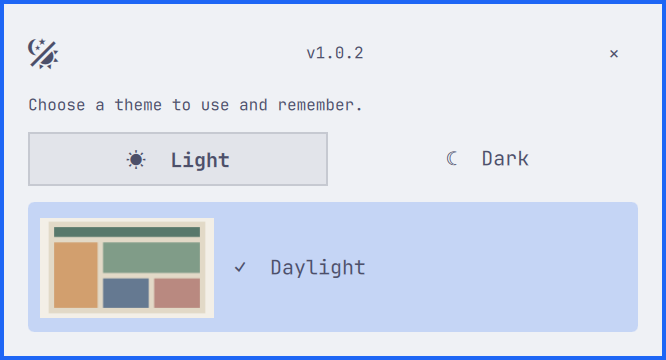
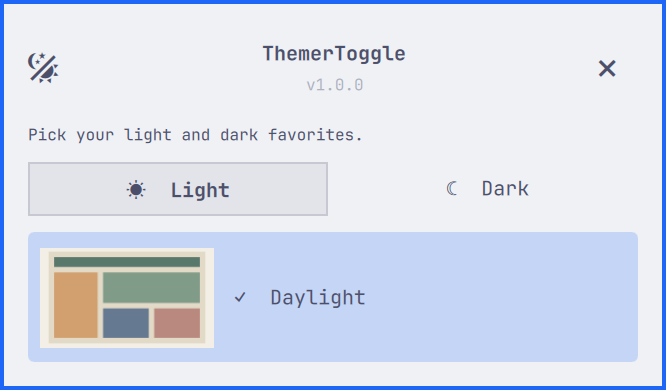
Polish menu header and prepare CodeRabbit reviews at version 1

diff --git a/ThemeSelector.qml b/ThemeSelector.qml
@@ -20,6 +20,7 @@ Panel {
   property string pluginVersion: ""
   readonly property alias closeButton: closeControl
   readonly property alias versionLabel: versionText
+  readonly property alias titleLabel: titleText
   FileView {
     path: decodeURIComponent(Qt.resolvedUrl("manifest.json").toString().replace(/^file:\/\//, ""))
     onLoaded: {
@@ -303,7 +304,7 @@ Panel {
       Keys.onEscapePressed: root.close()
       Item {
         Layout.fillWidth: true
-        implicitHeight: Style.space(30)
+        implicitHeight: Style.space(48)
         Text {
           anchors.left: parent.left
           anchors.verticalCenter: parent.verticalCenter
@@ -313,20 +314,34 @@ Panel {
           font.pixelSize: Style.space(22)
           Accessible.name: "ThemerToggle"
         }
-        Text {
-          id: versionText
+        Column {
           anchors.centerIn: parent
-          text: root.pluginVersion ? "v" + root.pluginVersion : ""
-          color: Color.foreground
-          font.family: Style.font.family
-          font.pixelSize: Style.font.caption
+          spacing: Style.space(3)
+          Text {
+            id: titleText
+            anchors.horizontalCenter: parent.horizontalCenter
+            text: "ThemerToggle"
+            color: Color.foreground
+            font.family: Style.font.family
+            font.pixelSize: Style.font.body
+            font.bold: true
+          }
+          Text {
+            id: versionText
+            anchors.horizontalCenter: parent.horizontalCenter
+            text: root.pluginVersion ? "v" + root.pluginVersion : ""
+            color: Color.muted
+            font.family: Style.font.family
+            font.pixelSize: Style.font.caption
+          }
         }
         Button {
           id: closeControl
           anchors.right: parent.right
           anchors.verticalCenter: parent.verticalCenter
-          width: Style.space(30)
-          height: Style.space(30)
+          width: Style.space(36)
+          height: Style.space(36)
+          fontSize: Style.space(26)
           text: "×"
           Accessible.name: "Close ThemerToggle"
           onClicked: root.close()
@@ -334,7 +349,7 @@ Panel {
       }
       Text {
         Layout.fillWidth: true
-        text: root.loading ? "Applying theme…" : "Choose a theme to use and remember."
+        text: root.loading ? "Applying theme…" : "Pick your light and dark favorites."
         color: Color.foreground
         font.family: Style.font.family
         font.pixelSize: Style.font.caption

diff --git a/CONTRIBUTING.md b/CONTRIBUTING.md
@@ -33,3 +33,10 @@ If the shell retains cached QML, restart it when no active shell app will be int
 Describe observable behavior changes and the checks performed in pull requests.
 Report security issues through [SECURITY.md](SECURITY.md). Contributions are
 licensed under GPL-3.0-only.
+
+## CodeRabbit
+
+The root `.coderabbit.yaml` configures automatic reviews of non-draft pull
+requests, with focused QML and Python review guidance. CodeRabbit's GitHub app
+must have access to this repository for reviews to run. Configuration alone does
+not install or authorize the app. See the [CodeRabbit configuration guide](https://docs.coderabbit.ai/getting-started/yaml-configuration).

diff --git a/RELEASING.md b/RELEASING.md
@@ -5,6 +5,10 @@ Repository: https://github.com/l1qu1d/themertoggle
 Permanent plugin ID: `io.github.l1qu1d.themertoggle`.
 Category: **Appearance**. Tags: **bar, quickshell, hyprland**.
 
+Keep the manifest and displayed version at `1.0.0` while the repository is private.
+Use Git commits to identify development changes; begin version increments after
+public release.
+
 The repository starts private. Public visibility and marketplace publication are
 separate actions. Do not describe it as listed or verified before publication.
 
